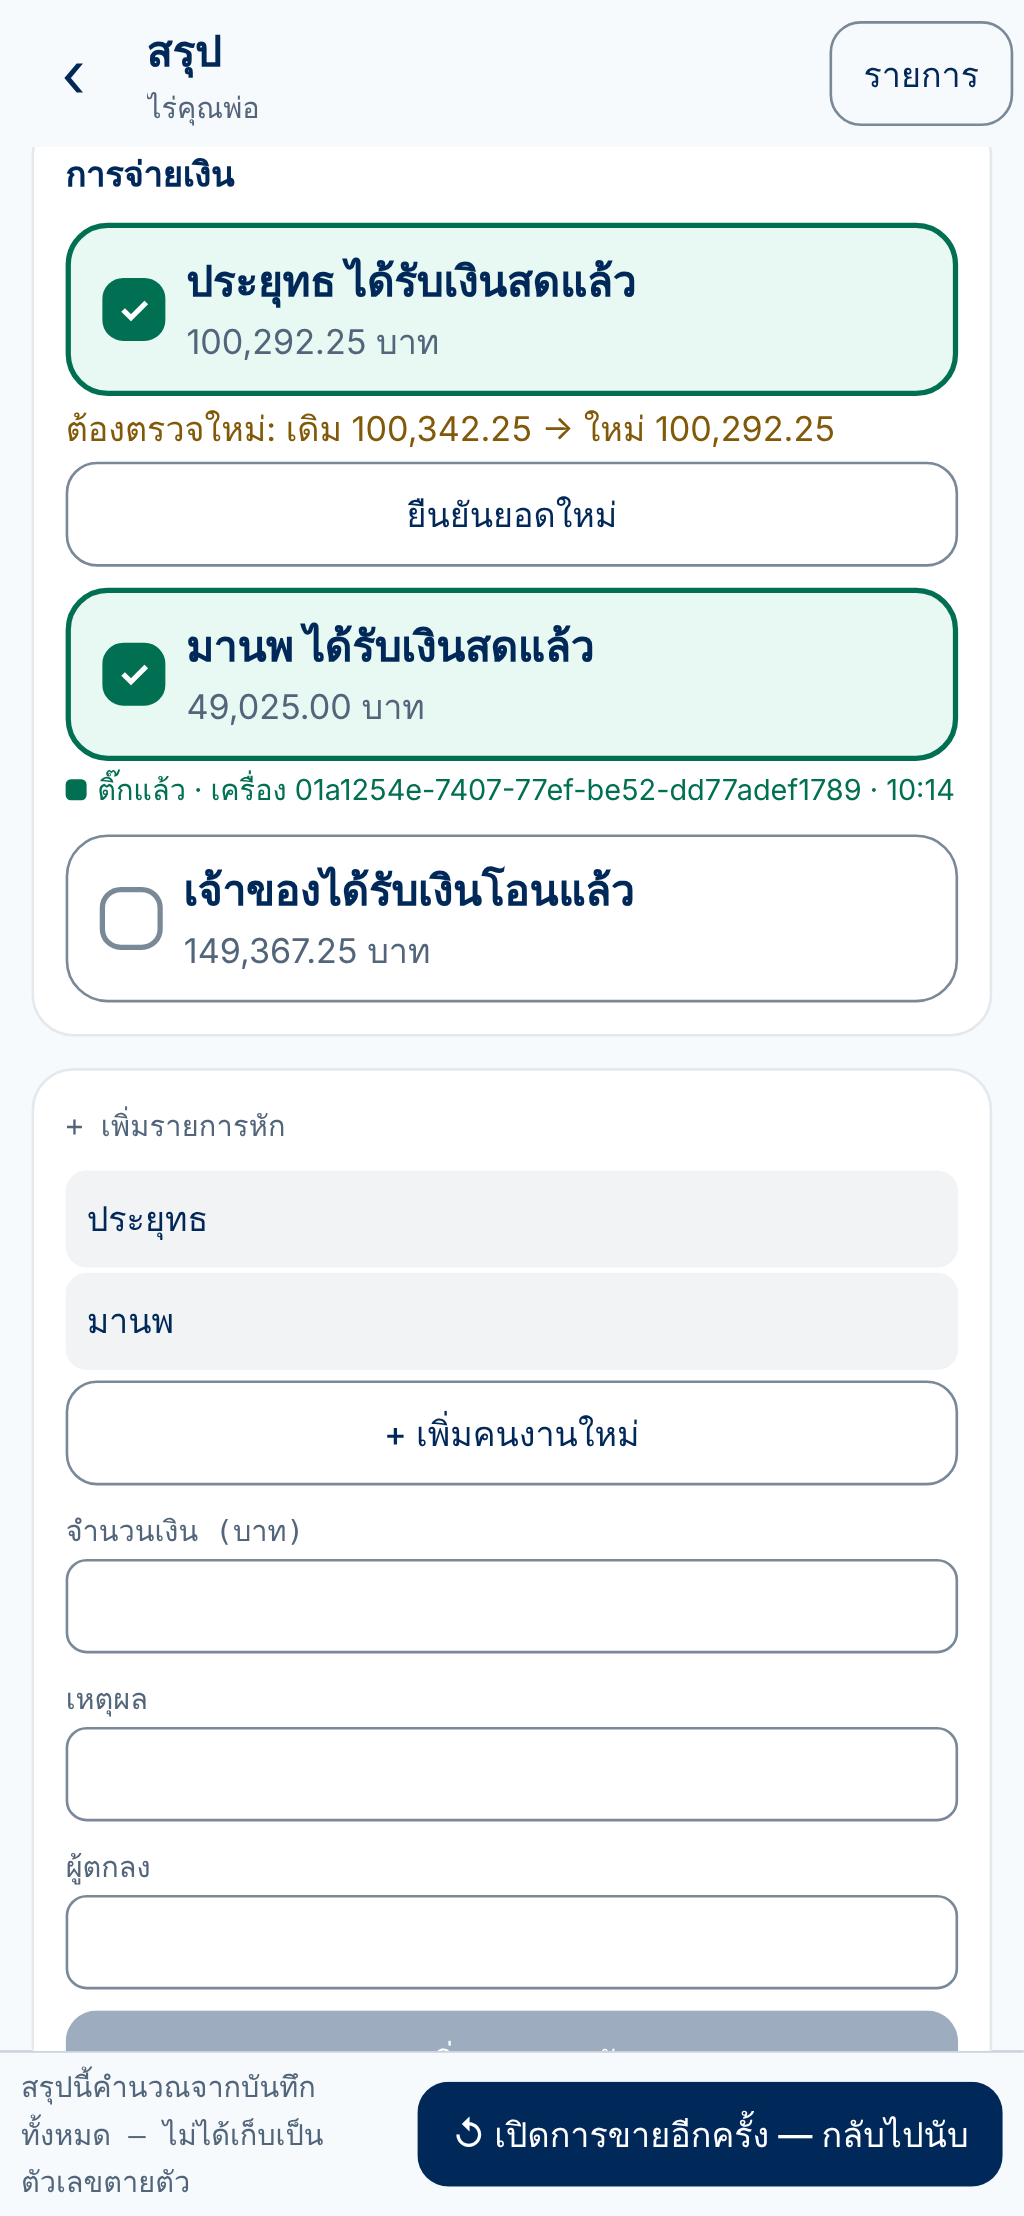
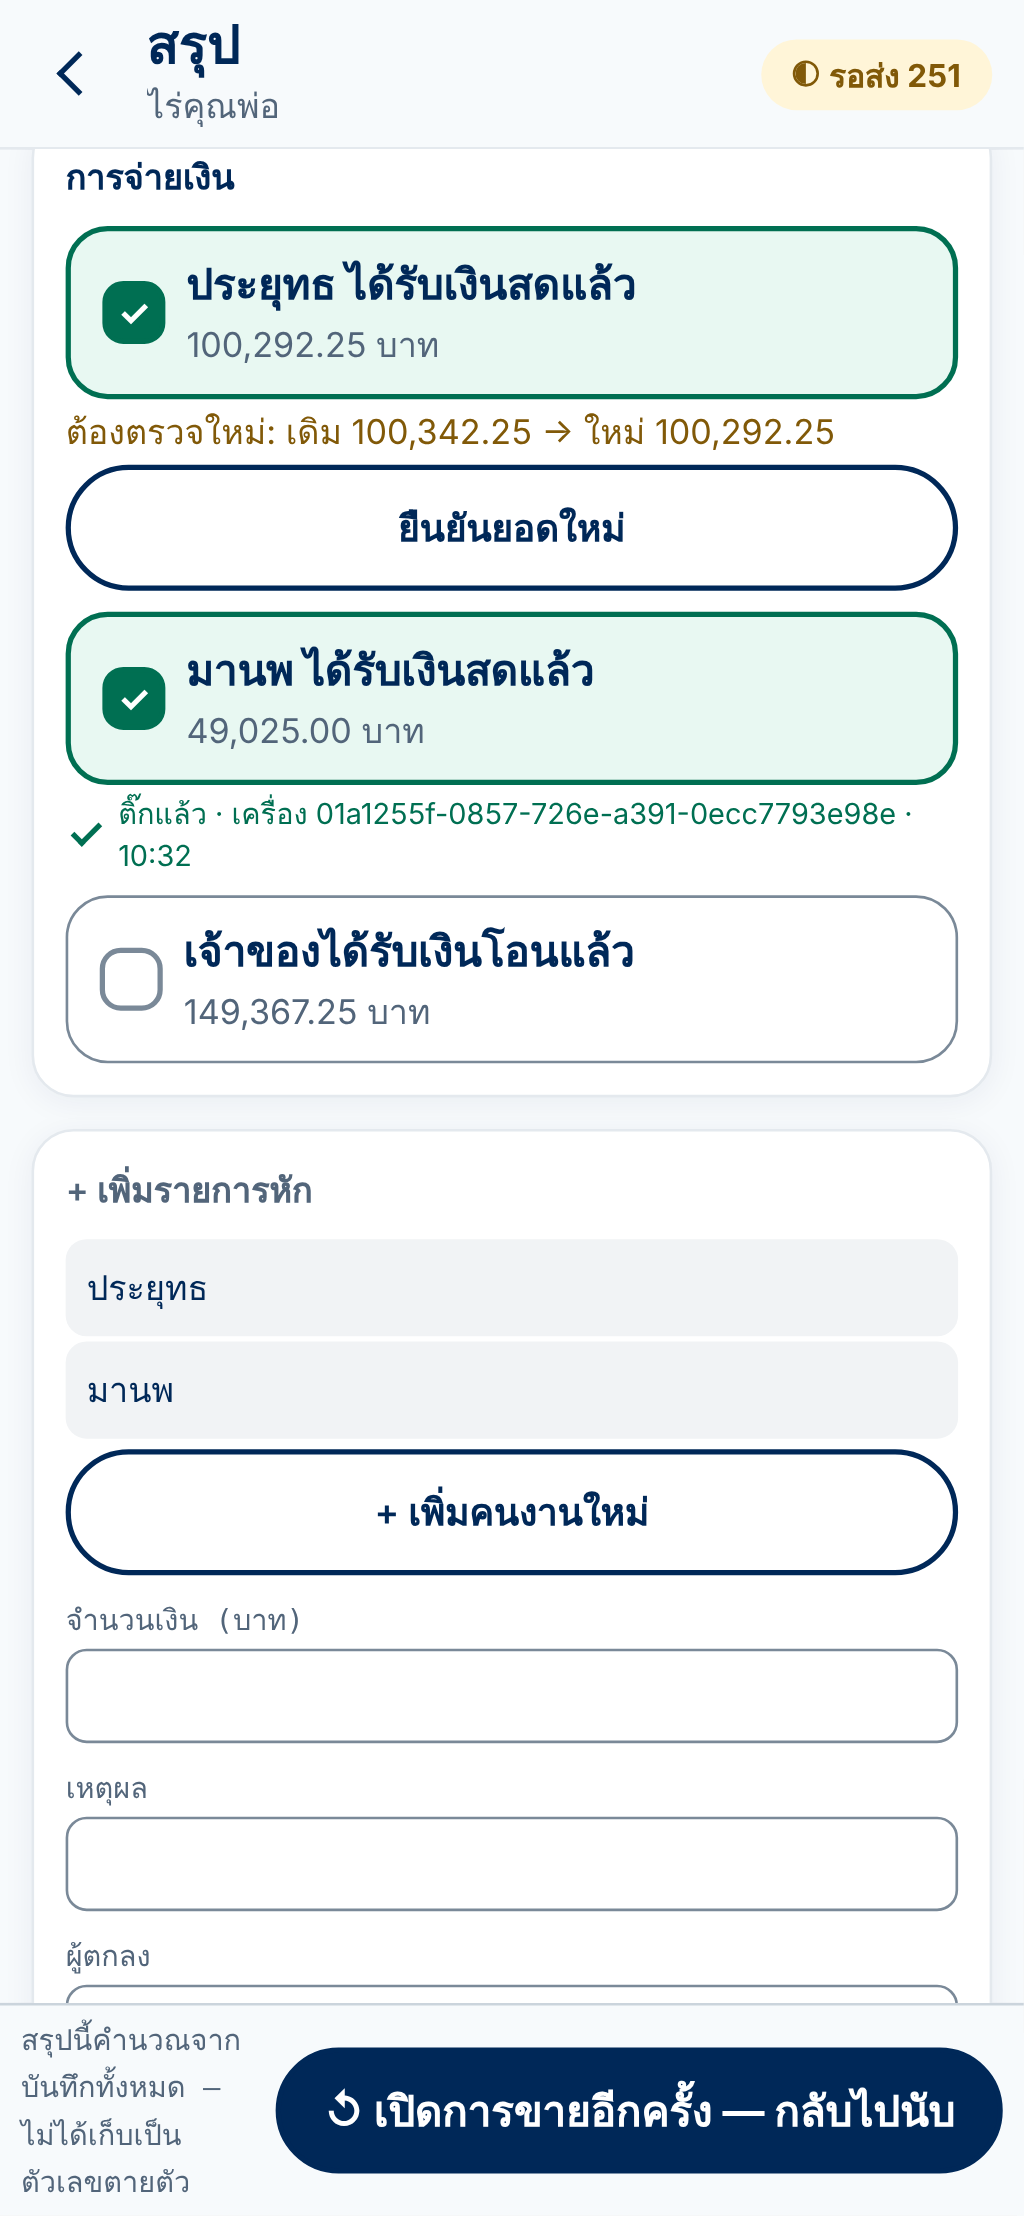
fix(settle): close payment review findings
Independent review of E05-S05, nothing major. A recheck now shows if
any phone's tick is not at today's amount, not only the head that
sorts last; a conflict offers "received" and "not received" outright;
a tick from another day shows its date; a worker with no cash left
gets no row. Orphan ticks are carried to E04-S11 in the story.

Claude-Session: https://claude.ai/code/session_01Nwki9aLcy7E332GTzcKSZR

Changed region(s): [[0.0, 0.0, 1.0, 0.9964], [0.75, 0.0, 0.9688, 0.0623]]

diff --git a/src/components/finance/PaymentStatusCard.tsx b/src/components/finance/PaymentStatusCard.tsx
@@ -9,7 +9,7 @@
 import { useMemo } from 'react';
 import { Pressable, Text, View } from 'react-native';
 
-import { formatSatang } from '../../core/finance/money';
+import { formatDate, formatSatang, todayIso } from '../../core/finance/money';
 import { paymentMarkPayload, paymentStatus, paymentTarget, type PaymentStatus } from '../../core/finance/payments';
 import { useFinance } from '../../finance/use-finance';
 import { useInFlight } from '../../finance/use-in-flight';
@@ -25,9 +25,12 @@ export interface Payee {
   readonly kind: 'cash' | 'transfer';
 }
 
-const clock = (ts: number) => {
+/** HH:MM today; the date too when it was another day (review #1). */
+const when = (ts: number) => {
   const d = new Date(ts);
-  return `${String(d.getHours()).padStart(2, '0')}:${String(d.getMinutes()).padStart(2, '0')}`;
+  const hm = `${String(d.getHours()).padStart(2, '0')}:${String(d.getMinutes()).padStart(2, '0')}`;
+  const iso = `${d.getFullYear()}-${String(d.getMonth() + 1).padStart(2, '0')}-${String(d.getDate()).padStart(2, '0')}`;
+  return iso === todayIso() ? hm : `${formatDate(iso)} ${hm}`;
 };
 
 export function PaymentStatusCard({ saleId, payees }: { saleId: string; payees: readonly Payee[] }) {
@@ -35,7 +38,7 @@ export function PaymentStatusCard({ saleId, payees }: { saleId: string; payees: 
   const msg = useT();
   const fin = useFinance();
   const inFlight = useInFlight();
-  const rows = useMemo(() => payees.map((p) => ({ p, s: paymentStatus(fin.events ?? [], saleId, p.id, p.satang) })), [fin.events, saleId, payees]);
+  const rows = useMemo(() => payees.filter((p) => p.satang > 0 || p.kind === 'transfer').map((p) => ({ p, s: paymentStatus(fin.events ?? [], saleId, p.id, p.satang) })), [fin.events, saleId, payees]);
 
   const mark = (p: Payee, s: PaymentStatus, done: boolean) =>
     inFlight.run(async () => {
@@ -54,7 +57,7 @@ export function PaymentStatusCard({ saleId, payees }: { saleId: string; payees: 
           <Pressable
             testID={`pay-toggle-${p.id}`}
             accessibilityRole="checkbox"
-            accessibilityState={{ checked: s.done, disabled: inFlight.busy }}
+            accessibilityState={{ checked: s.conflict ? 'mixed' : s.done, disabled: inFlight.busy }}
             disabled={inFlight.busy}
             onPress={() => void mark(p, s, !s.done)}
             style={{
@@ -86,14 +89,14 @@ export function PaymentStatusCard({ saleId, payees }: { saleId: string; payees: 
             </View>
             <View style={{ flex: 1 }}>
               <Text testID={`pay-${p.id}`} style={{ fontFamily: t.font.family.sans, fontSize: t.font.size.body, fontWeight: t.font.weight.bold, color: t.color.ink }}>
-                {p.id === 'owner' ? msg('pay.owner') : msg('pay.cash', { name: p.name })}
+                {p.kind === 'transfer' ? msg('pay.owner') : msg('pay.cash', { name: p.name })}
               </Text>
               <Text style={{ fontFamily: t.font.family.sans, fontSize: t.font.size.small, color: t.color.inkSoft }}>{`${formatSatang(p.satang)} ${msg('fin.baht')}`}</Text>
             </View>
           </Pressable>
           {s.done && !s.recheck ? (
             <Fact mark="check" tone="accept" testID={`pay-done-${p.id}`}>
-              {msg('pay.doneBy', { device: s.by?.deviceId ?? '', time: s.at ? clock(s.at) : '' })}
+              {msg('pay.doneBy', { device: s.by?.deviceId ?? '', time: s.at ? when(s.at) : '' })}
             </Fact>
           ) : null}
           {s.recheck ? (
@@ -106,7 +109,16 @@ export function PaymentStatusCard({ saleId, payees }: { saleId: string; payees: 
               </Button>
             </View>
           ) : null}
-          {s.conflict ? <Note tone="reject" testID={`pay-conflict-${p.id}`}>{msg('pay.conflict')}</Note> : null}
+          {s.conflict ? (
+            <View style={{ gap: t.space.xxs }}>
+              <Note tone="reject" testID={`pay-conflict-${p.id}`}>{msg('pay.conflict')}</Note>
+              {/* Two explicit choices (review #4): settling a conflict as "not paid" must not take two taps. */}
+              <View style={{ flexDirection: 'row', gap: t.space.sm }}>
+                <Button testID={`pay-pick-done-${p.id}`} variant="primary" disabled={inFlight.busy} onPress={() => void mark(p, s, true)}>{msg('pay.pickDone')}</Button>
+                <Button testID={`pay-pick-undone-${p.id}`} disabled={inFlight.busy} onPress={() => void mark(p, s, false)}>{msg('pay.pickUndone')}</Button>
+              </View>
+            </View>
+          ) : null}
         </View>
       ))}
     </View>

diff --git a/src/i18n/messages.ts b/src/i18n/messages.ts
@@ -369,7 +369,9 @@ const th = {
   'pay.doneBy': 'ติ๊กแล้ว · เครื่อง {device} · {time}',
   'pay.recheck': 'ต้องตรวจใหม่: เดิม {was} → ใหม่ {now}',
   'pay.confirmNew': 'ยืนยันยอดใหม่',
-  'pay.conflict': 'สองเครื่องติ๊กไม่ตรงกัน (ติ๊ก/ยกเลิก) — แตะเพื่อเลือกอีกครั้ง',
+  'pay.conflict': 'สองเครื่องติ๊กไม่ตรงกัน (ติ๊ก/ยกเลิก) — เลือกอีกครั้ง',
+  'pay.pickDone': 'ได้รับแล้ว',
+  'pay.pickUndone': 'ยังไม่ได้รับ',
   'chk.title': 'ตรวจยอดกับคนรับซื้อยาง',
   'chk.open': 'ไปหน้าตรวจยอด',
   'chk.status.pending': 'รอตรวจสอบเทียบยอด',
@@ -978,7 +980,9 @@ const en: Partial<Record<keyof typeof th, string>> = {
   'pay.doneBy': 'ticked · device {device} · {time}',
   'pay.recheck': 'check again: was {was} → now {now}',
   'pay.confirmNew': 'confirm the new amount',
-  'pay.conflict': 'two phones disagree (ticked / unticked) — tap to choose again',
+  'pay.conflict': 'two phones disagree (ticked / unticked) — choose again',
+  'pay.pickDone': 'received',
+  'pay.pickUndone': 'not received',
   'chk.title': 'check with the buyer',
   'chk.open': 'open the check',
   'chk.status.pending': 'waiting to check',

diff --git a/src/core/finance/payments.test.ts b/src/core/finance/payments.test.ts
@@ -58,4 +58,19 @@ describe('separate payment statuses (E05-S05 · SET-6)', () => {
     expect(salePaymentConflicts([a, c, d], 's1')).toEqual(['person-daeng']);
     expect(salePaymentConflicts([a, c, d], 's2')).toEqual([]);
   });
+
+  it('review #2: two phones ticked at different amounts → recheck if any tick is not at today\'s amount', () => {
+    const old = ev(T, paymentMarkPayload('s1', 'person-daeng', true, 3486000), null, 'dev-a');
+    const now = ev(T, paymentMarkPayload('s1', 'person-daeng', true, 3436000), null, 'dev-b');
+    expect(paymentStatus([old, now], 's1', 'person-daeng', 3436000)).toMatchObject({ done: true, recheck: true, conflict: false });
+    expect(paymentStatus([now, old], 's1', 'person-daeng', 3436000).recheck).toBe(true);
+  });
+
+  it('review #5: a write based on both conflicting heads settles it', () => {
+    const a = ev(T, paymentMarkPayload('s1', 'person-daeng', true, 3486000), null, 'dev-a');
+    const b = ev(T, paymentMarkPayload('s1', 'person-daeng', false, 3486000), null, 'dev-b');
+    expect(paymentStatus([a, b], 's1', 'person-daeng', 3486000).conflict).toBe(true);
+    const c = ev(T, { ...paymentMarkPayload('s1', 'person-daeng', false, 3486000), alsoBasedOn: [a.id] }, b.id);
+    expect(paymentStatus([a, b, c], 's1', 'person-daeng', 3486000)).toMatchObject({ conflict: false, done: false, heads: [c.id] });
+  });
 });

diff --git a/src/core/finance/payments.ts b/src/core/finance/payments.ts
@@ -52,7 +52,8 @@ export function paymentStatus(events: readonly FinanceEvent[], saleId: string, p
   return {
     done: p.done,
     amountAtMarkSatang: p.done ? p.amountSatang : null,
-    recheck: p.done && p.amountSatang !== amountSatang,
+    // Any tick not at today's amount needs a recheck, whichever head sorts last (review #2).
+    recheck: p.done && evs.some((e) => (e.payload as MarkPayload).amountSatang !== amountSatang),
     conflict: false,
     head,
     heads,
